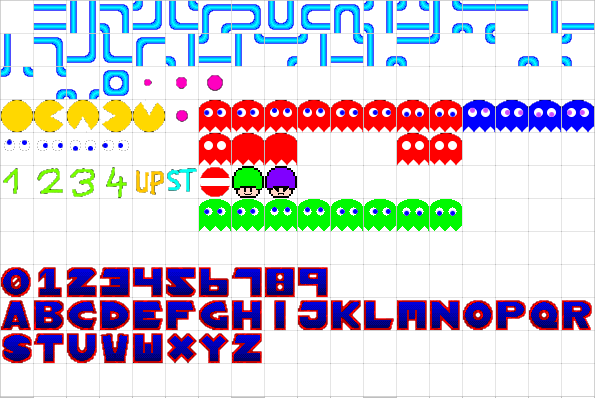
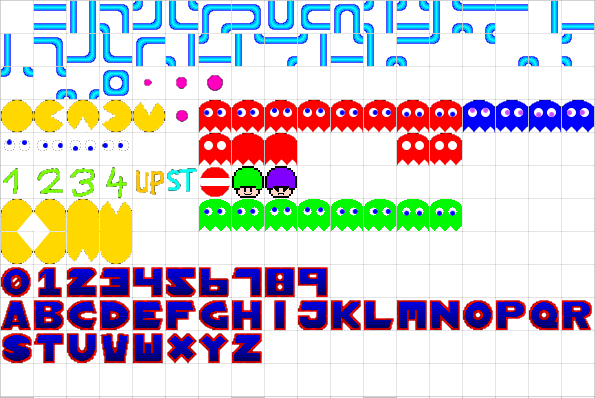
shapman animations

Changed region(s): [[0.0, 0.4824, 0.242, 0.6633]]

diff --git a/app/main.ts b/app/main.ts
@@ -247,46 +247,73 @@ class Shapman {
     lastDirection: number;
     group: Phaser.Group;
     state: ShapmanState;
+    updateAnimation: boolean;
 
     constructor(public tileX:number, public tileY:number, private game: GameState, private map: Phaser.Tilemap, private layer: Phaser.TilemapLayer) {
         this.state = ShapmanState.Strong;
         this.nextDirection = Phaser.NONE;
+        this.updateAnimation = false;
 
         this.sprite = game.add.sprite(tileX * 32 + 16, tileY * 32 + 16, 'sprites', 54);
         this.sprite.anchor.set(0.5);
 
         this.group = game.add.group();
         this.group.add(this.sprite);
-        //this.sprite2 = game.add.sprite(48, 48, 'sprites', 54);
-        //this.sprite2.anchor.set(0.5);
 
-        this.sprite.animations.add('walkRight', [54, 55]);
-        this.sprite.animations.add('walkDown', [54, 56]);
-        this.sprite.animations.add('walkLeft', [54, 57]);
-        this.sprite.animations.add('walkUp', [54, 58]);
-        this.sprite.animations.add('stand', [54]);
+        this.sprite.animations.add('weakWalkRight', [54, 55]);
+        this.sprite.animations.add('weakWalkDown', [54, 56]);
+        this.sprite.animations.add('weakWalkLeft', [54, 57]);
+        this.sprite.animations.add('weakWalkUp', [54, 58]);
+        this.sprite.animations.add('weakStand', [54]);
 
-        //this.sprite.animations.play('walkDown', 5, true);
+        this.sprite.animations.add('strongWalkRight', [126, 129]);
+        this.sprite.animations.add('strongWalkDown', [128, 129]);
+        this.sprite.animations.add('strongWalkLeft', [127, 129]);
+        this.sprite.animations.add('strongWalkUp', [129]);
+        this.sprite.animations.add('strongStand', [129]);
         game.physics.enable(this.sprite);
         this.sprite.body.collideWorldBounds = true;
+
+        this.sprite2 = this.game.add.sprite(0, 0, 'sprites', 54);
+        this.sprite2.anchor.set(0.5);
+        this.sprite2.animations.add('strongWalkRight', [108, 110]);
+        this.sprite2.animations.add('strongWalkDown', [110]);
+        this.sprite2.animations.add('strongWalkLeft', [109, 110]);
+        this.sprite2.animations.add('strongWalkUp', [110, 111]);
+        this.sprite2.animations.add('strongStand', [110]);
+        this.sprite2.kill();
+        this.game.physics.enable(this.sprite2);
 
         this.movement = new TileContstraintSpriteMovement(map, this.layer, this.sprite);
     }
 
     update() {
-        if(this.lastDirection !== this.movement.currentDirection) {
+        if(this.updateAnimation || this.lastDirection !== this.movement.currentDirection) {
+            let animPrefix = 'weak';
+            if(this.state == ShapmanState.Strong) {
+                animPrefix = 'strong';
+            }
             if(this.movement.currentDirection === Phaser.UP) {
-                this.sprite.animations.play('walkUp', 5, true);
+                this.sprite.animations.play(animPrefix + 'WalkUp', 5, true);
+                this.sprite2.animations.play(animPrefix + 'WalkUp', 5, true);
             }
             else if(this.movement.currentDirection === Phaser.LEFT) {
-                this.sprite.animations.play('walkLeft', 5, true);
+                this.sprite.animations.play(animPrefix + 'WalkLeft', 5, true);
+                this.sprite2.animations.play(animPrefix + 'WalkLeft', 5, true);
             }
             else if(this.movement.currentDirection === Phaser.RIGHT) {
-                this.sprite.animations.play('walkRight', 5, true);
+                this.sprite.animations.play(animPrefix + 'WalkRight', 5, true);
+                this.sprite2.animations.play(animPrefix + 'WalkRight', 5, true);
             }
             else if(this.movement.currentDirection === Phaser.DOWN) {
-                this.sprite.animations.play('walkDown', 5, true);
+                this.sprite.animations.play(animPrefix + 'WalkDown', 5, true);
+                this.sprite2.animations.play(animPrefix + 'WalkDown', 5, true);
             }
+            else if(this.movement.currentDirection === Phaser.NONE) {
+                this.sprite.animations.play(animPrefix + 'Stand', 5, true);
+                this.sprite2.animations.play(animPrefix + 'Stand', 5, true);
+            }
+            this.updateAnimation = false;
         }
         this.lastDirection = this.movement.currentDirection;
         this.movement.nextDirection = this.nextDirection;
@@ -295,26 +322,28 @@ class Shapman {
 
     grow() {
         this.state = ShapmanState.Strong;
-        if(!this.sprite2) {
-            this.sprite2 = this.game.add.sprite(this.sprite.x, this.sprite.y - 32, 'sprites', 54);
-            this.game.physics.enable(this.sprite2);
-            this.sprite2.anchor.set(0.5);
+        if(!this.sprite2.alive) {
+            this.sprite2.revive();
+            this.sprite2.visible = true;
             this.group.add(this.sprite2);
+
             let oldMovement = this.movement;
             this.movement = new DoubleTileConstraintSpriteMovement(this.map, this.layer, this.sprite, this.sprite2);
             this.movement = copyRelevantMovementProperties(this.movement, oldMovement);
+            this.updateAnimation = true;
         }
     }
 
     shrink() {
         this.state = ShapmanState.Weak;
-        if(this.sprite2) {
+        if(this.sprite2.alive) {
             this.group.remove(this.sprite2);
-            this.sprite2.destroy();
-            this.sprite2 = null;
+            this.sprite2.kill();
+
             let oldMovement = this.movement;
             this.movement = new TileContstraintSpriteMovement(this.map, this.layer, this.sprite);
             this.movement = copyRelevantMovementProperties(this.movement, oldMovement);
+            this.updateAnimation = true;
         }
     }
 
